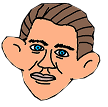
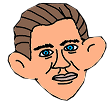
Left right assets and mechanic code
There are now assets (left and right) for both charakters
The mechanic is now done
more could be added in the future

diff --git a/austrian-political-parties/js/script.js b/austrian-political-parties/js/script.js
@@ -130,7 +130,7 @@ for(var i = 0; i<= maxFrame; i++){
             ctx.drawImage(player1Sprites[1],player1.x,player1.y);
           }
           else {
-            ctx.drawImage(player1Sprites[2],player1.x,player1.y);
+            ctx.drawImage(player1Sprites[1],player1.x,player1.y);
           }
         }
         else if(keys[81]){
@@ -167,6 +167,68 @@ for(var i = 0; i<= maxFrame; i++){
   }
 }
 //------------------------------------------------------
+var player2Sprite = new Array(maxFrame);
+var anime2;
+
+for(var i = 0; i<= maxFrame; i++){
+  player2Sprite[i] = new Image();
+  player2Sprite[i].src = "../../assets/SebastianKurz(" + i + ").png";
+
+  if(i == maxFrame){
+    anime2 = function(){
+      if(player2.dead == false){
+        if(keys[74] && !player2.jumping){
+          ctx.drawImage(player2Sprite[1], player2.x, player2.y);
+        }
+        else if(keys[76] && !player1.jumping){
+          ctx.drawImage(player2Sprite[2], player2.x, player2.y);
+        }
+        else if(player2.jumping == true){
+          if (player2.lastDir == "l") {
+            ctx.drawImage(player2Sprites[1],player2.x,player2.y);
+          }
+          else {
+            ctx.drawImage(player2Sprites[1],player2.x,player2.y);
+          }
+        }
+        else if(keys[79]){
+          if(player1.lastDir == "l"){
+            ctx.drawImage(player2Sprites[1],(player2.x - player2.width / 2),player2.y);
+            if ((player2.x - player2.range) <= (player1.x + player1.width) &&
+              (player2.x - player2.range) >= player1.x  - (player1.width / 2) &&
+              player2.y >= player1.y &&
+              player2.y <= player1.y + player2.height) {
+                hurt(player1, player2, healthP1);
+                    displayDamage(player1.health, "p1-damage");
+                    player1.velX -= player1.health;
+                    player1.lastDir = "l";
+            }
+            else{
+              ctx.drawImage(player2Sprites[2],player2.x,player2.y);
+              if((player2.x + player2.width) + player2.range >= player1.x &&
+                (player2.x + player2.width) + player2.range <= (player1.x + (player1.width * 1.5)) &&
+                player2.y >= player1.y &&
+                player2.y <= player1.y + player1.height) {
+                  hurt(player1, player2, healthP1);
+                  displayDamage(player1.health, "p1-damage");
+                  player1.velX += player1.health;
+                  player1.lastDir = "r";
+              }
+            }
+          }
+        }
+        else{
+          ctx.drawImage(player2Sprites[0],player2.x,player2.y);
+        }
+      }
+    }
+  }
+}
+
+
+//-------------------------------------------------------------------------------
+
+
 // load player 1 sprites
 for (var i = 0; i <= maxFrames; ++i) {
     player1Sprites[i] = new Image();
@@ -244,6 +306,7 @@ for (var i = 0; i <= maxFrames; ++i) {
         };
     }
 }
+
 
 // load player 2 sprites
 for (var j = 0; j <= maxFrames; ++j) {
@@ -436,7 +499,7 @@ function update() {
 
   // render and animate characters
   anime1();
-  anim2();
+  anime2();
 
   // death animations
   if (deathTime != 0 && deathTime < 14) {
